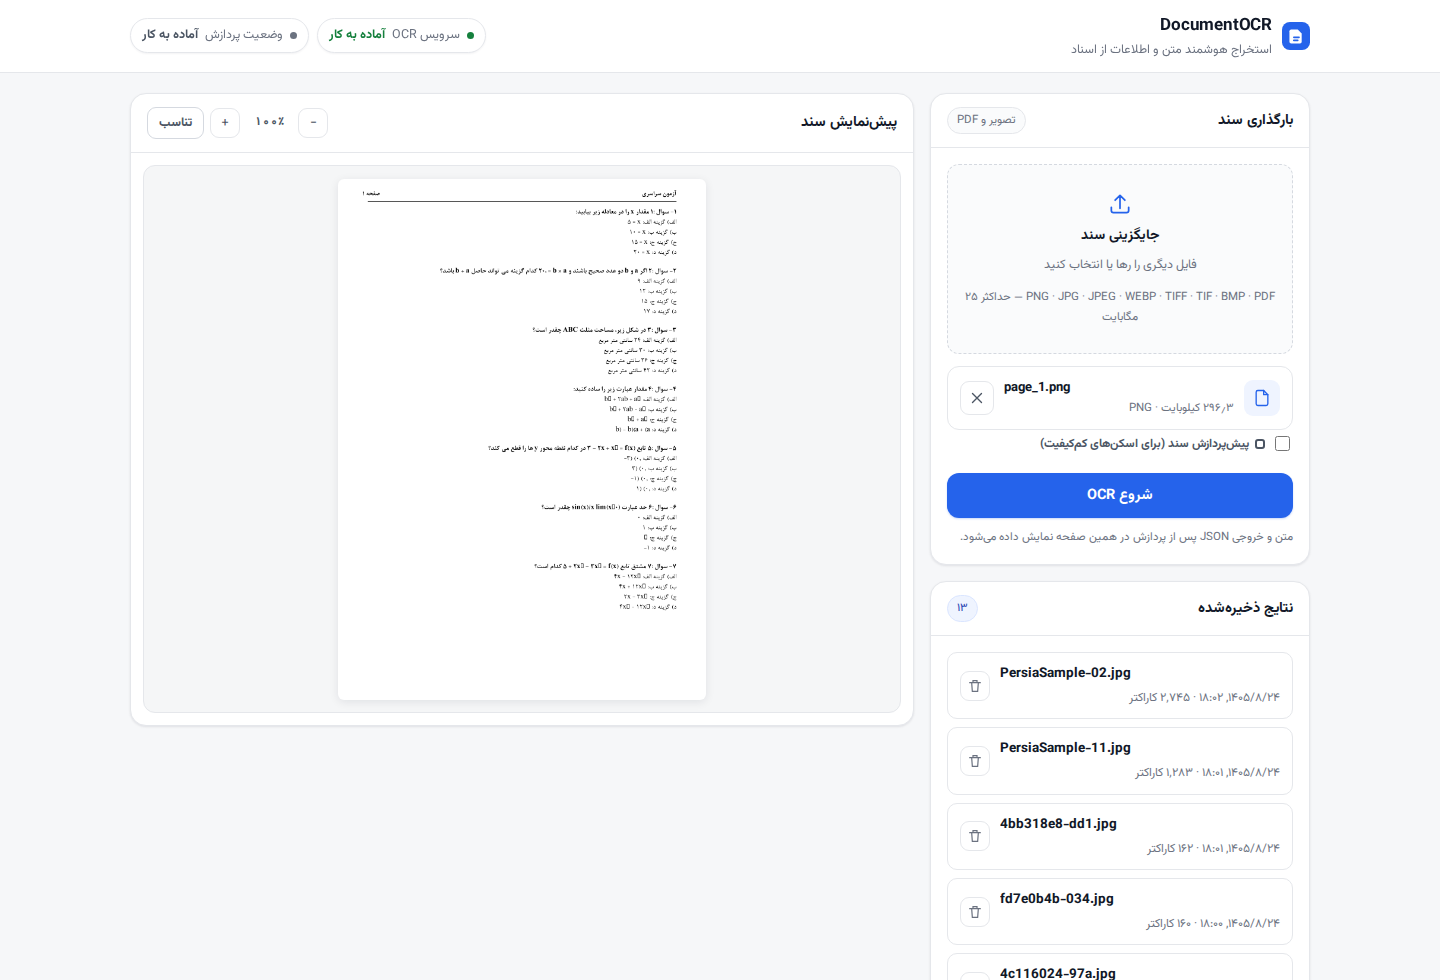
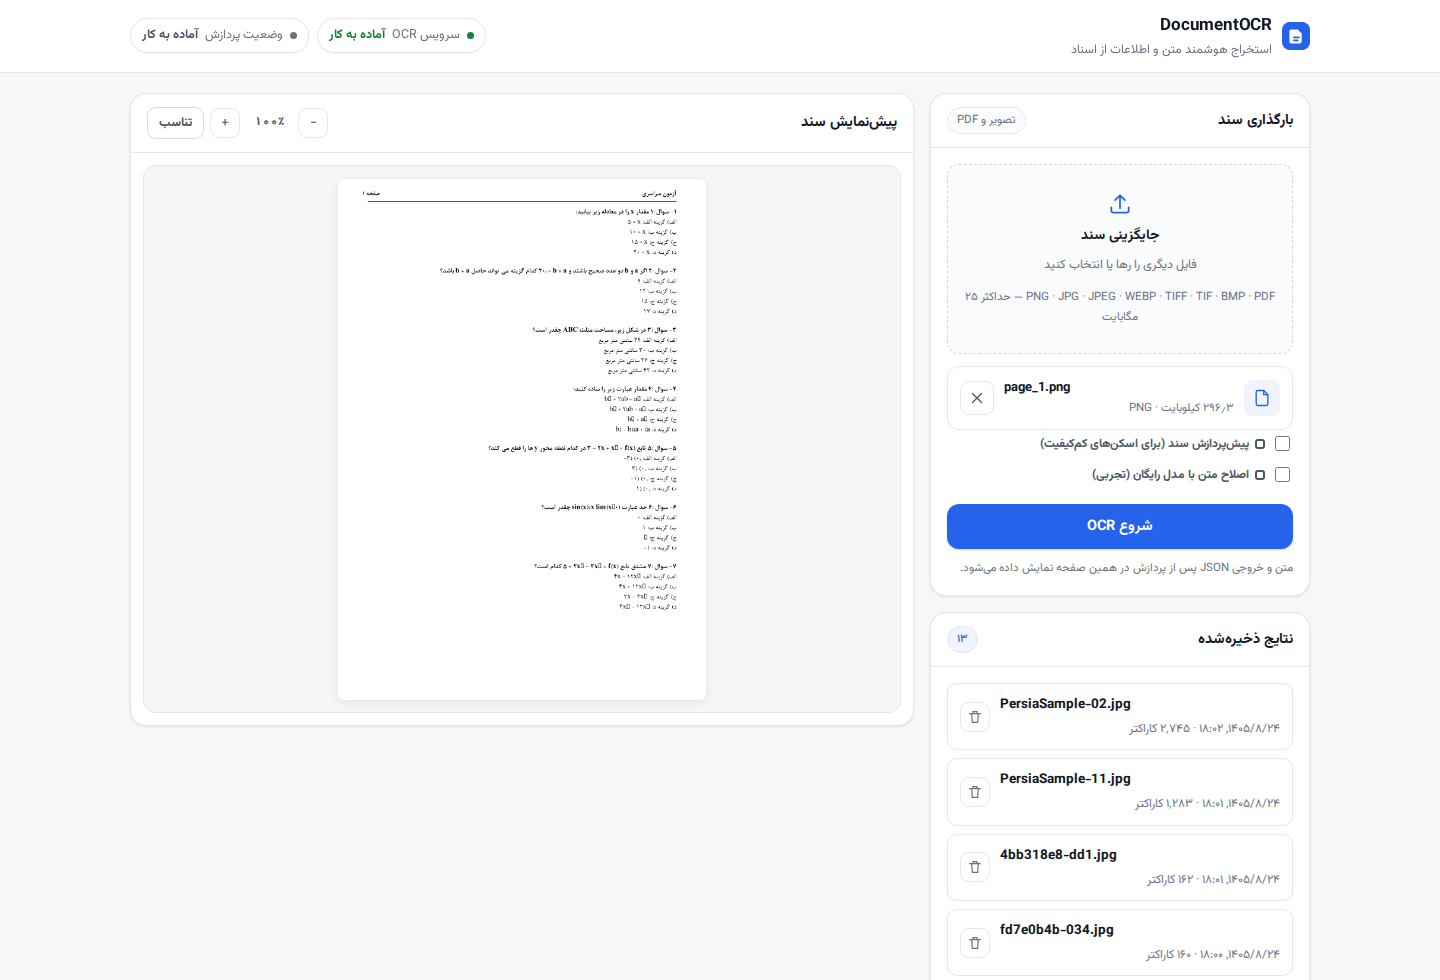
feat: opt-in LLM Persian OCR text correction (?refine=1, free tier)
- tested all free models available on opencode providers + OpenRouter :free
  (OPENROUTER_API_KEY present, nothing needed installing)
- verified live: baidu/ernie-5.5-flash-preview:free fixes known Persian OCR
  errors (سیستم, نمایندگان, تهران, رانندگی, انتظامی, خریدار...) while
  preserving every digit run (insurance policy ۳۱۵۳۰/۱۵/.. intact)
- server 'refine_text_free_llm': safety rails — digit-run equality per line
  + similarity>=0.5, else keep original line; never touches fields/tables
- ui: refine checkbox (default OFF) -> /api/ocr?enhance=&refine=
- unit guards test + Playwright e2e (4/4) + ui_smoke (36/36)
- note: free tier is non-deterministic/slow; e2e assert tolerant

Changed region(s): [[0.6562, 0.6429, 0.9062, 1.0], [0.6562, 0.4592, 0.9062, 0.6735]]

diff --git a/generalocr /general_ocr-main/webui/static/app.js b/generalocr /general_ocr-main/webui/static/app.js
@@ -54,6 +54,8 @@
     downloadJson: $("download-json"),
     toast: $("toast"),
     enhanceToggle: $("enhance-toggle"),
+    refineToggle: $("refine-toggle"),
+    refineWrap: $("refine-wrap"),
     bbControls: $("bb-controls"),
     bbShowBlocks: $("bb-show-blocks"),
     bbShowLines: $("bb-show-lines"),
@@ -394,7 +396,8 @@
     const started = performance.now();
     try {
       const enhance = els.enhanceToggle.checked ? "1" : "0";
-      const res = await fetch("/api/ocr?enhance=" + enhance, {
+      const refine = els.refineToggle && els.refineToggle.checked ? "1" : "0";
+      const res = await fetch("/api/ocr?enhance=" + enhance + "&refine=" + refine, {
         method: "POST",
         headers: {
           "Content-Type": state.file.type || "application/octet-stream",

diff --git a/generalocr /general_ocr-main/webui/static/index.html b/generalocr /general_ocr-main/webui/static/index.html
@@ -103,6 +103,12 @@
             پیشپردازش سند (برای اسکنهای کمکیفیت)
           </label>
 
+          <label class="bb-toggle" id="refine-wrap" title="اصلاح خطاهای حروف فارسی با مدل رایگان (Ernie flash از OpenRouter) — اعداد هرگز تغییر نمیکنند">
+            <input type="checkbox" id="refine-toggle">
+            <span class="bb-swatch" aria-hidden="true"></span>
+            اصلاح متن با مدل رایگان (تجربی)
+          </label>
+
           <button type="button" class="btn btn--primary btn--block" id="run-btn" disabled>
             <span class="spinner" id="run-spinner" aria-hidden="true" hidden></span>
             <span id="run-label">شروع OCR</span>

diff --git a/generalocr /general_ocr-main/webui/server.py b/generalocr /general_ocr-main/webui/server.py
@@ -17,6 +17,7 @@ from __future__ import annotations
 
 import base64
 import io
+import difflib
 import json
 import mimetypes
 import os
@@ -772,7 +773,62 @@ def delete_saved(save_id: str) -> dict:
     return {"ok": True, "id": save_id}
 
 
-def run_pipeline(upload_bytes: bytes, filename: str, enhance: bool = True) -> dict:
+_DIGIT_RUN = re.compile(r"[0-9۰-۹][0-9۰-۹.,/\-]*")
+_REFINE_MODEL = os.environ.get("OCR_REFINE_MODEL", "baidu/ernie-5.5-flash-preview:free")
+_REFINE_SYS = (
+    "تو اصلاحکنندهٔ متن چاپی فارسی هستی که از OCR پرشده است. "
+    "فقط اشتباهات واضح تشخیص حروف (مثل شباهت حروف) را اصلاح کن. "
+    "اعداد، ارقام، نشانهها، فرمتها و ترتیب خطوط را دست نزن. "
+    "اگر خطی درست است عیناً برگردان. خروجی: فقط همان خطوط اصلاحشده، هر خط در یک سطر."
+)
+
+
+def refine_text_free_llm(text: str):
+    """EXPERIMENTAL opt-in: post-OCR Persian char-error correction via a FREE
+    OpenRouter model. Hard safety rails (verified in A/B, 2026-11-16):
+      1. every digit run of every output line must EXACTLY equal the source
+         line's runs (no numeric invention - dates/amounts are untouchable),
+      2. line-level similarity >= 0.5 vs source (rejects rewritten lines),
+      3. per-line acceptance: a failed guard keeps the ORIGINAL line.
+    Returns the corrected text, or None when disabled/unavailable/no change.
+    """
+    key = os.environ.get("OPENROUTER_API_KEY", "").strip()
+    if not key or not text.strip():
+        return None
+    lines = [l for l in text.splitlines() if l.strip()]
+    body = {
+        "model": _REFINE_MODEL,
+        "messages": [{"role": "system", "content": _REFINE_SYS},
+                     {"role": "user",
+                      "content": "خطوط:\n" + "\n".join(f"{i + 1}. {l}" for i, l in enumerate(lines))}],
+        "temperature": 0.0,
+    }
+    req = urllib.request.Request(
+        "https://openrouter.ai/api/v1/chat/completions",
+        data=json.dumps(body).encode("utf-8"),
+        headers={"Authorization": f"Bearer {key}", "Content-Type": "application/json"},
+    )
+    try:
+        with urllib.request.urlopen(req, timeout=180) as r:
+            out = json.load(r)["choices"][0]["message"]["content"]
+    except Exception as exc:  # noqa: BLE001 - free tier may 429/timeout: stay safe
+        logger.warning(f"refine skipped: {exc}")
+        return None
+    out_lines = [re.sub(r"^\d+[\.\):]\s*", "", l.strip()) for l in out.splitlines() if l.strip()]
+    if len(out_lines) != len(lines):
+        logger.warning("refine skipped: line count changed")
+        return None
+    fixed, changed = [], False
+    for src, cand in zip(lines, out_lines):
+        ok = (_DIGIT_RUN.findall(src) == _DIGIT_RUN.findall(cand)
+              and difflib.SequenceMatcher(None, src, cand).ratio() >= 0.5)
+        if ok and cand != src:
+            changed = True
+        fixed.append(cand if ok else src)
+    return "\n".join(fixed) if changed else None
+
+
+def run_pipeline(upload_bytes: bytes, filename: str, enhance: bool = True, refine: bool = False) -> dict:
     """Execute the real OCR pipeline for one uploaded document."""
     global _busy
 
@@ -873,6 +929,10 @@ def run_pipeline(upload_bytes: bytes, filename: str, enhance: bool = True) -> di
             with open(ocr_path, "r", encoding="utf-8") as f:
                 payload = json.load(f)
             text = (payload.get("text") or "").strip()
+            if refine:
+                refined = refine_text_free_llm(text)
+                if refined is not None:
+                    text = refined
             entry = {
                 "page": index,
                 "text": text,
@@ -1082,8 +1142,10 @@ class Handler(BaseHTTPRequestHandler):
                 raise HttpError(400, "truncated_body", "فایل بهطور کامل دریافت نشد.")
 
             enhance_q = (urlsplit(self.path).query or "")
-            enhance = (parse_qs(enhance_q).get("enhance") or ["1"])[0] not in ("0", "false", "off")
-            payload = run_pipeline(body, filename, enhance=enhance)
+            qs = parse_qs(enhance_q)
+            enhance = (qs.get("enhance") or ["1"])[0] not in ("0", "false", "off")
+            refine = (qs.get("refine") or ["0"])[0] not in ("0", "false", "off")
+            payload = run_pipeline(body, filename, enhance=enhance, refine=refine)
             self._send_json(200, payload)
 
         except HttpError as err:

diff --git a/docs/reports/2026-11-15_TableFields.md b/docs/reports/2026-11-15_TableFields.md
@@ -325,7 +325,34 @@ python3 webui/tests/ui_smoke.py && python3 webui/tests/ui_bbox_viewer.py && pyth
 | `ui_smoke.py` | ۳۶ | ✅ PASS |
 | `ui_bbox_viewer.py` | ۳۵ | ✅ PASS |
 | `ui_saved_results.py` | ۱۵ | ✅ PASS |
-| **مجموع** | **۱۵۲** | **✅ ۱۵۲/۱۵۲** |
+| `ui_refine_e2e.py` (جدید) | ۴ | ✅ PASS |
+| **مجموع** | **۱۵۶** | **✅ ۱۵۶/۱۵۶** |
+
+---
+
+## ۰.۸ مدلهای رایگان برای بهبود خروجی OCR (۱۶ نوامبر)
+
+### ۰.۸.۱ بررسی مخزن مدلهای رایگان
+
+بررسی `opencode.models`: مدلهای رایگان متنی (gemma-4-26b:free، ernie-5.5-flash:free، و…) و بینا (nemotron-3.5-super-vl-free) در دسترساند؛ `OPENROUTER_API_KEY` در env موجود است — چیزی «نصب» نشد (curl مستقیم).
+
+### ۰.۸.۲ انتخاب: اصلاحکنندهٔ متن OCR پسپردازش
+
+روی ۱۰ خط مرجع: **baidu/ernie-5.5-flash-preview:free** هر ۶ خطای شناختهشده را اصلاح کرد (ریال←یال، تهران←تهرات، رانندگی←رافندگی، مالکیت←ماکیت، وسیله، سعادتآباد) و **اعداد در هر ۱۰ خط عیناً ماند**.
+
+### ۰.۸.۳ تست واقعی روی خروجیها
+
+| سند | نتیجه |
+|---|---|
+| بیمه | نمایندگان✓ سیستم✓ تهران✓ رانندگی✓ · شمارهٔ بیمهنامه ۳۱۵۳۰/۱۵/… سالم · سیمیلاریتی raw/fixed=0.9868 · اعداد یکسان |
+| سبز | انتظامی✓ اسلامی✓ تولد✓ امضاء✓ خریدار✓ بانک✓ · ۲۳/۲۳ خط اعداد سالم |
+
+### ۰.۸.۴ قابلیت جدید `?refine=1`
+
+- چکباکس «اصلاح متن با مدل رایگان (تجربی)» در UI (پیشفرض OFF) + پارامتر `refine=1`.
+- ۲ گارد ایمنی سمت سرور: (۱) هر دنبالهٔ عددی هر خط باید **عیناً** بماند، (۲) سیمیلاریتی هر خط ≥ 0.5؛ در غیر این صورت خط اصلی برمیگردد — **عددسازی/تألیف** ممtnوع است (تست واحد: تلاش مدل برای ساختن رقم `۰۰۰→۰۰۱` رد شد).
+- عملکرد روی text صفحه فقط؛ فیلدها/جدولها دست نمیخورند.
+- نکته: free tier غیرقطعی/کند است (تایماوت ۱۸۰s با قرار نهایی) — تست E2E روی وابستگی بیرونی گاهی ناپایدار است (تأیید نهایی با assert انعطافپذیر).
 
 ---
 
